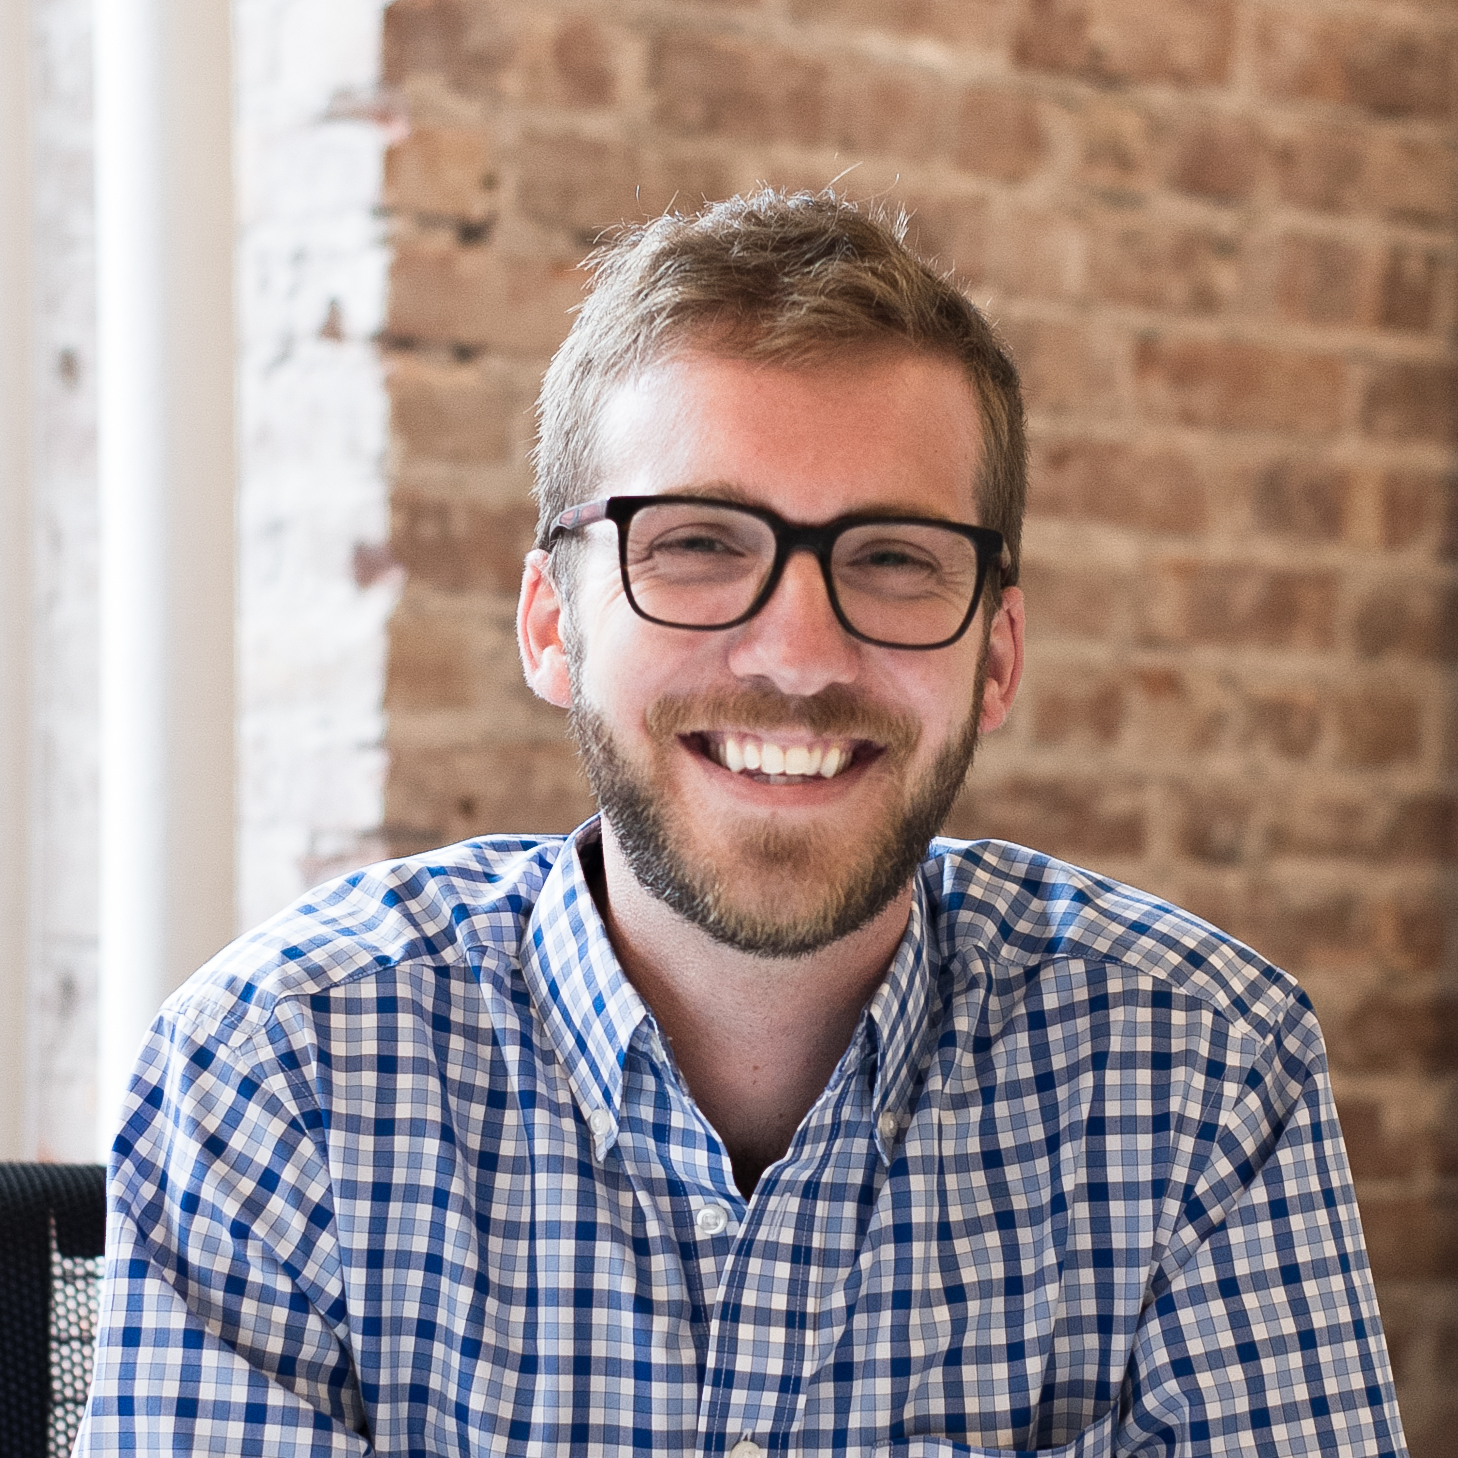
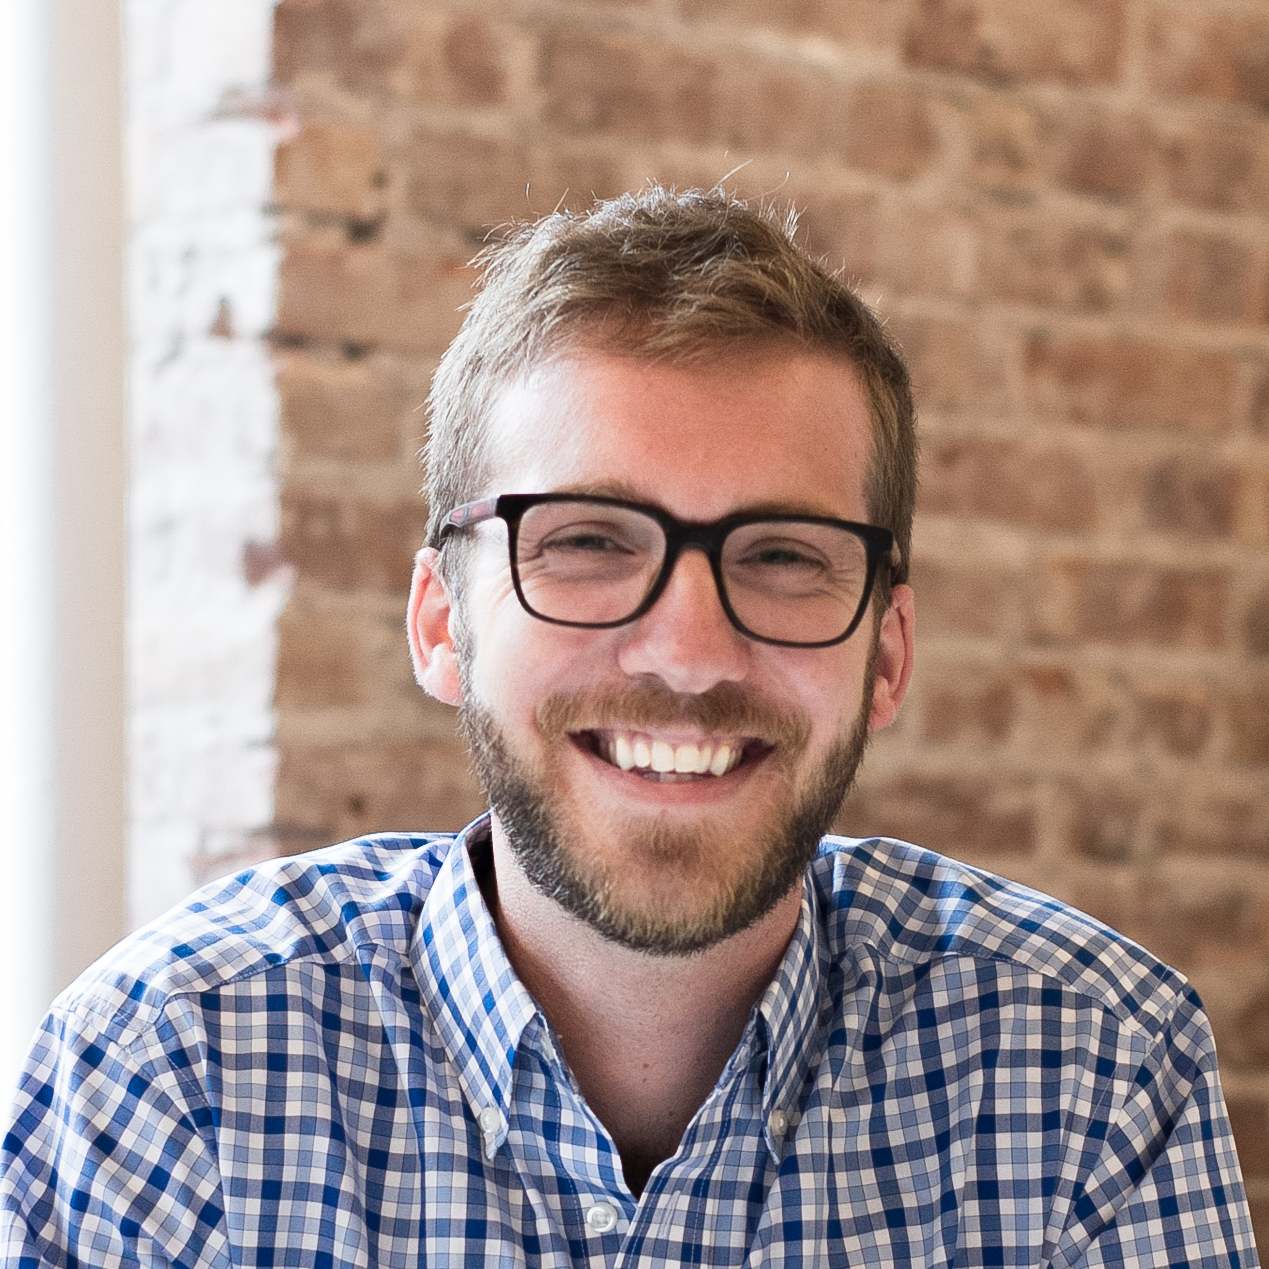
updated copy and header image.

diff --git a/index.html b/index.html
@@ -66,16 +66,12 @@
     </nav>
 
     <!-- Header -->
-    <header class="headline-container homepage__video full">
-      <video autoplay muted loop playslinline>
-        <source src="img/hero-video.mp4" />
-      </video>
-      <div class="container homepage__tagline constrained">
-          <div class="intro-text constrained-inner">
-              <div class="headline-text"><p>The conversational AI redefining language learning</p></div>
-                  <a href="#video" class="page-scroll btn btn-xl">Meet Loree</a>
-              </div>
-          </div>
+    <header class="masthead">
+        <div class="container">
+            <div class="intro-text">
+                <div class="intro-lead-in">The conversational AI redefining language learning</div>
+                <a href="#video" class="page-scroll btn btn-xl">Meet Loree</a>
+            </div>
         </div>
     </header>
 
@@ -96,15 +92,12 @@
     <!-- About -->
     <section id="about">
         <div class="container">
-            <div class="row about-context">
-                <div class="col-md-4 about-icon centered">
-                    <img class="mx-auto centered" src="img/about/1.png" alt="">
-                </div>
-                <div class="col-md-8 col-centered">
-                    <h4 class="service-heading">Intelligent companion</h4>
-                    <p class="text-muted">Loree is an intelligent companion that lives inside your devices. She is fluent in all languages, and helps introduce language learning and culture into a child’s daily routine.</p>
+            <div class="row">
+                <div class="col-lg-12 text-center">
+                    <h2 class="section-heading">Learn more about Loree</h2>
                 </div>
             </div>
+
 
             <div class="row">
                 <div class="col-md-12 about-image">
@@ -112,16 +105,17 @@
                 </div>
             </div>
 
-
             <div class="row about-context">
                 <div class="col-md-4 about-icon centered">
-                    <img class="mx-auto centered" src="img/about/2.png" alt="">
+                    <img class="mx-auto centered" src="img/about/1.png" alt="">
                 </div>
                 <div class="col-md-8 col-centered">
-                    <h4 class="service-heading">Native language exposure</h4>
-                    <p class="text-muted">Loree enters conversations with you and your child to learn about what made the day so special. Being a natural conversationalist, Loree is interactive and personable.</p>
+                    <h4 class="service-heading">Loree is an intelligent companion</h4>
+                    <p class="text-muted">She lives inside your devices, is fluent in all languages, and helps introduce culture through language learning into your child’s daily routine. She pays close attention to what you’re saying and caters to your child’s needs as they learn and grow.</p>
                 </div>
             </div>
+
+
 
             <div class="row">
                 <div class="col-md-12 about-image">
@@ -129,16 +123,13 @@
                 </div>
             </div>
 
-
-
             <div class="row about-context">
                 <div class="col-md-4 about-icon centered">
-                    <img class="mx-auto centered" src="img/about/3.png" alt="">
+                    <img class="mx-auto centered" src="img/about/2.png" alt="">
                 </div>
-                <div class="col-md-8 col-centered ab">
-                    <h4 class="service-heading">Customs and traditions through stories</h4>
-                    <p class="text-muted">Based on the conversations you have with her, Loree generates topical storybooks. Her books revisit the day’s experiences and introduce customs and traditions unique to your culture.
-</p>
+                <div class="col-md-8 col-centered">
+                    <h4 class="service-heading">Native language exposure</h4>
+                    <p class="text-muted">Loree is an interactive and natural conversationalist. She loves talking to you and your child in the same way you’d share the exciting parts of your day with a loved one. She responds, asks questions, and even laughs.</p>
                 </div>
             </div>
 
@@ -147,6 +138,18 @@
                     <img class"mx-auto" src="img/about/about3.jpg" alt="">
                 </div>
             </div>
+
+            <div class="row about-context">
+                <div class="col-md-4 about-icon centered">
+                    <img class="mx-auto centered" src="img/about/3.png" alt="">
+                </div>
+                <div class="col-md-8 col-centered ab">
+                    <h4 class="service-heading">Customs and traditions through stories</h4>
+                    <p class="text-muted">Loree creates original stories and beautiful illustrations with a little help from your child’s imagination. Her interactive storybooks revisit experiences from the day bringing together customs, themes, and traditions unique to your culture. All this to reinforce your family’s unique background.</p>
+                </div>
+            </div>
+
+
         </div>
     </section>
 
@@ -155,22 +158,22 @@
         <div class="container">
             <div class="row">
                 <div class="col-lg-12 text-center">
-                    <h2 class="section-heading">Technology</h2>
+                    <h2 class="section-heading">Loreebook AI</h2>
                     <h3 class="section-subheading text-muted">Loree isn't just a friendly face — She's a great listener who thinks on her feet.</h3>
                 </div>
             </div>
             <div class="row text-center">
                 <div class="col-md-4">
-                    <h4 class="service-heading">Conversational UI</h4>
-                    <p class="text-muted">Talking to Loree is no different to talking to a real person. She responds, asks questions, and even laughs.</p>
+                    <h4 class="service-heading">Natural Language Understanding</h4>
+                    <p class="text-muted">Loree understands and talks to you like a real person. She decodes complex conversations through a series of natural language queries, helping her pick up on subtleties, humor, and emotion.</p>
                 </div>
                 <div class="col-md-4">
-                    <h4 class="service-heading">Machine Learning</h4>
-                    <p class="text-muted">Loree is smart. She pays close attentions to your child's needs as they continue to grow and learn.</p>
+                    <h4 class="service-heading">Deep Learning</h4>
+                    <p class="text-muted">Loree’s smart. She works through multiple layers of information to understand how concepts relate, allowing her to translate your conversations into relevant themes and stories.</p>
                 </div>
                 <div class="col-md-4">
-                    <h4 class="service-heading">AI Illustrations</h4>
-                    <p class="text-muted">Loree comes up with original stories and beautiful illustrations, with just a little help from your child.</p>
+                    <h4 class="service-heading">Context Awareness</h4>
+                    <p class="text-muted">The value of information is in it’s context. Loree learns your preferences, what you’ve done, and what you are planning to do so that she can adapt and prepare your child for the days ahead.</p>
                 </div>
             </div>
         </div>
@@ -182,7 +185,7 @@
             <div class="row">
                 <div class="col-lg-7 col-centered text-center">
                     <h2 class="section-heading">Meet the team</h2>
-                    <p class="large section-subheading text-muted">Each summer, Moment creates a research project about an exciting topic we see on the horizon. For moment's 2017 summer project, our team of designers sought out to explore the interaction of voice user interfaces and parents.</h3>
+                    <p class="large section-subheading text-muted">The concept of Loree is the result of a vision created by Moment designers, interns, and thought leaders who looked to explore ways they could celebrate culture and diversity through voice UI.</h3>
                 </div>
             </div>
             <div class="row">
@@ -198,7 +201,7 @@
                     <div class="team-member">
                         <img class="mx-auto rounded-circle" src="img/team/2.jpg" alt="">
                         <a href="https://www.bluecuevas.com/"><h4>Blue Cuevas</h4></a>
-                        <p class="text-muted">IIT '18</p>
+                        <p class="text-muted">IIT - ID '18</p>
                         </div>
                 </div>
                 <div class="col-sm-3">

diff --git a/css/agency.css b/css/agency.css
@@ -41,7 +41,7 @@ section {
 
 @media (min-width: 768px) {
   section {
-    padding: 20px 0 80px 0; } }
+ } }
 
 ::-moz-selection {
   background: #fed136;
@@ -115,6 +115,7 @@ body {
 header.masthead {
   text-align: center;
   color: white;
+  background-image: url("../img/loree-ambient.gif");
   background-repeat: no-repeat;
   background-attachment: scroll;
   background-position: center center;

diff --git a/css/loree.css b/css/loree.css
@@ -25,7 +25,7 @@ img.centered{
 }
 
 .about-context {
-  margin: 100px 0 0 0;
+  margin: 50px 0 0 0;
 }
 
 .valign {
